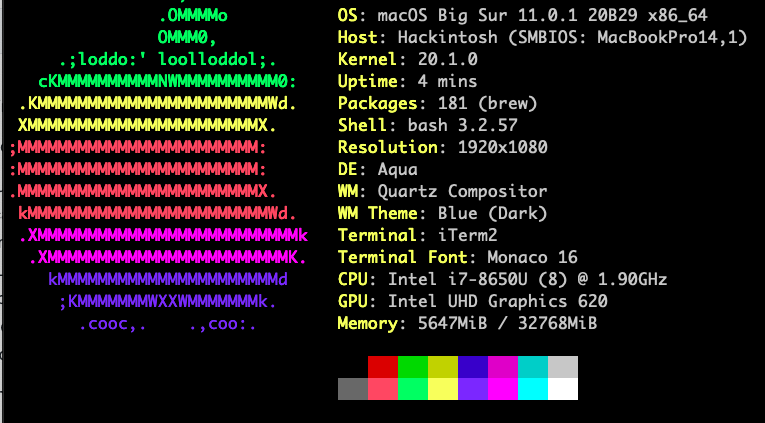
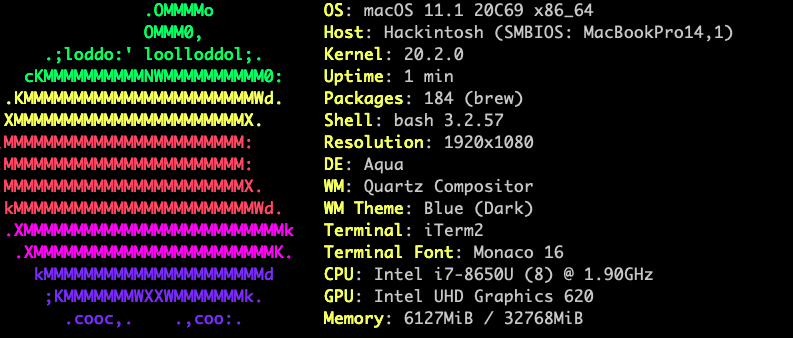
20C69

diff --git a/README.md b/README.md
@@ -13,7 +13,7 @@ Working (compared to other setup I've found):
 
 Tested with:
 * T480 i7-8650U FHD, 32GB RAM, NVME, nvidia MX150 deactivated in DSDT/SSDT
-* macOS 11.0.1 (20B29)
+* macOS 11.1 (20C69)
 * Wireless DW1560, NGFF Broadcom BCM4352 802.11ac with PCID [14e4:43b1]
 * Wireless DW1820a : use config.DW1820a.plist
 * CPU i7-8650U : use https://github.com/stevezhengshiqi/one-key-cpufriend for correct power-state/energy saving
